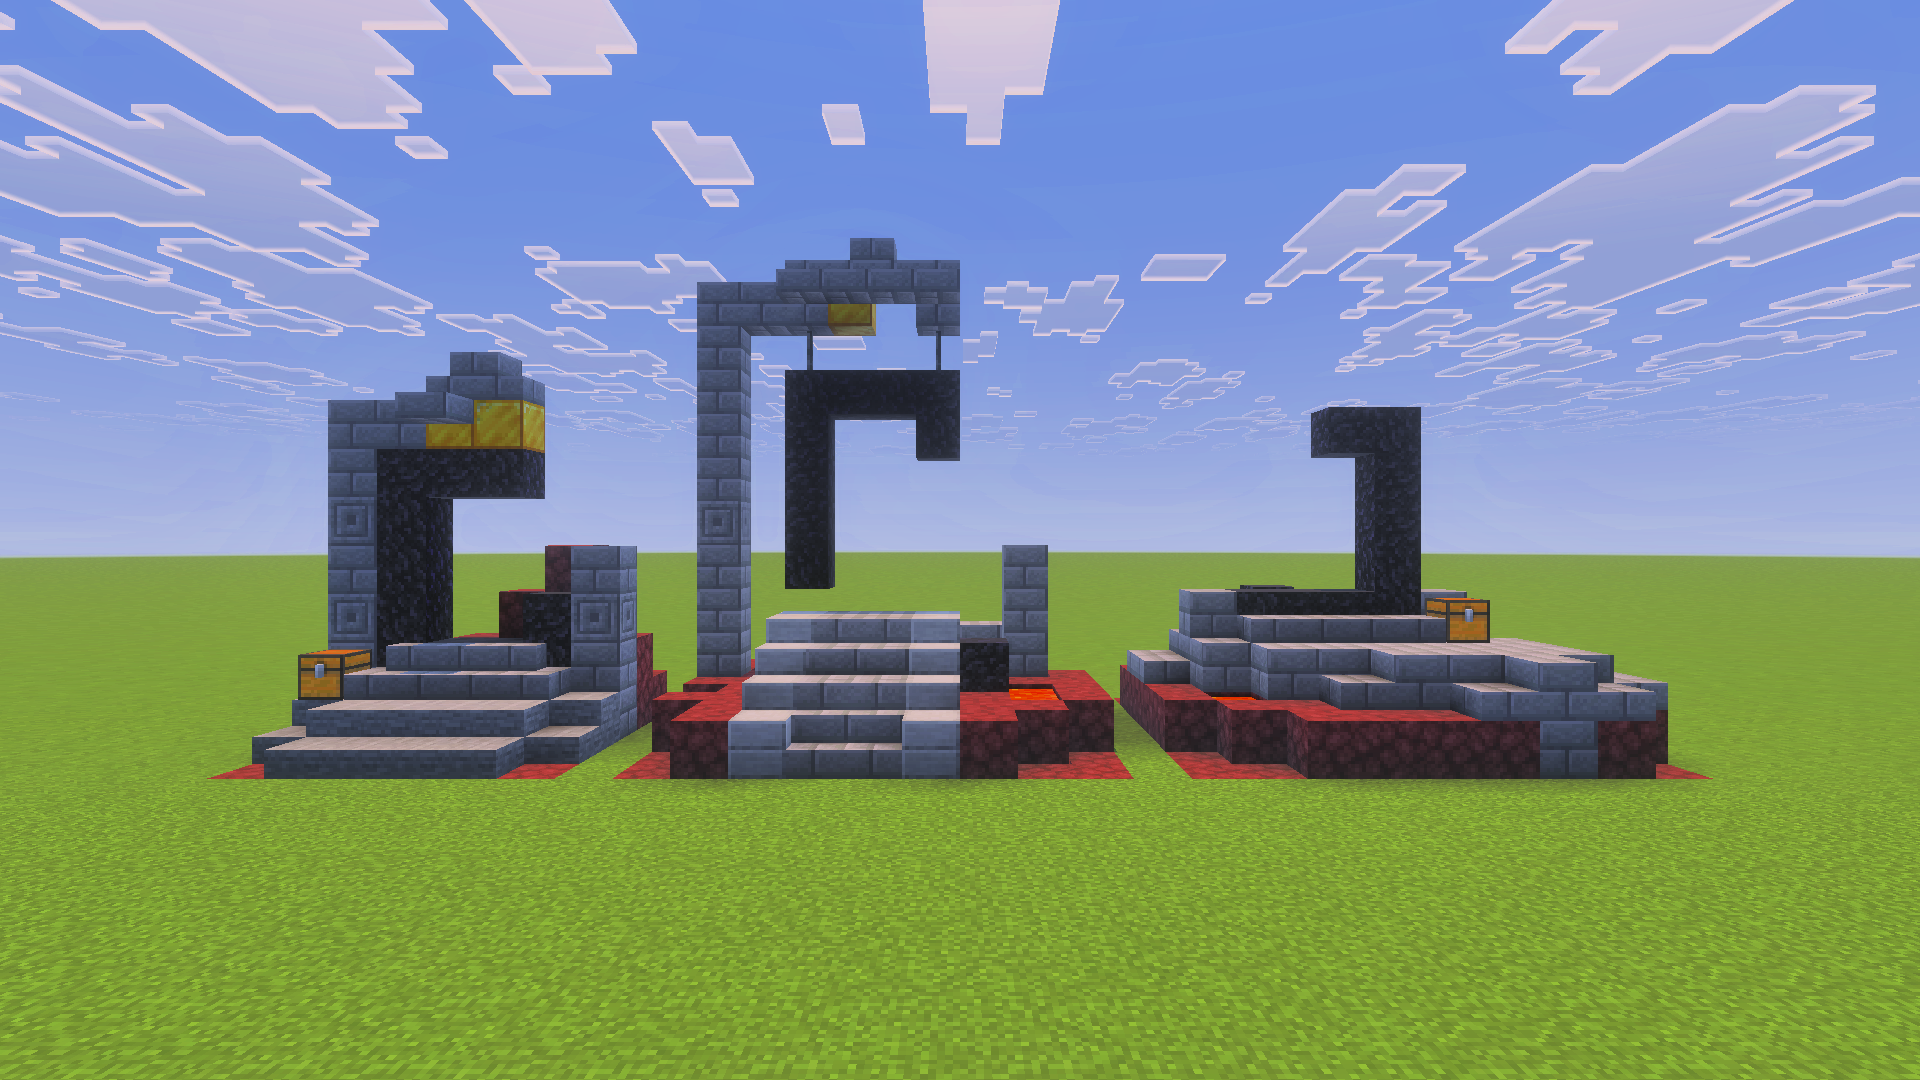
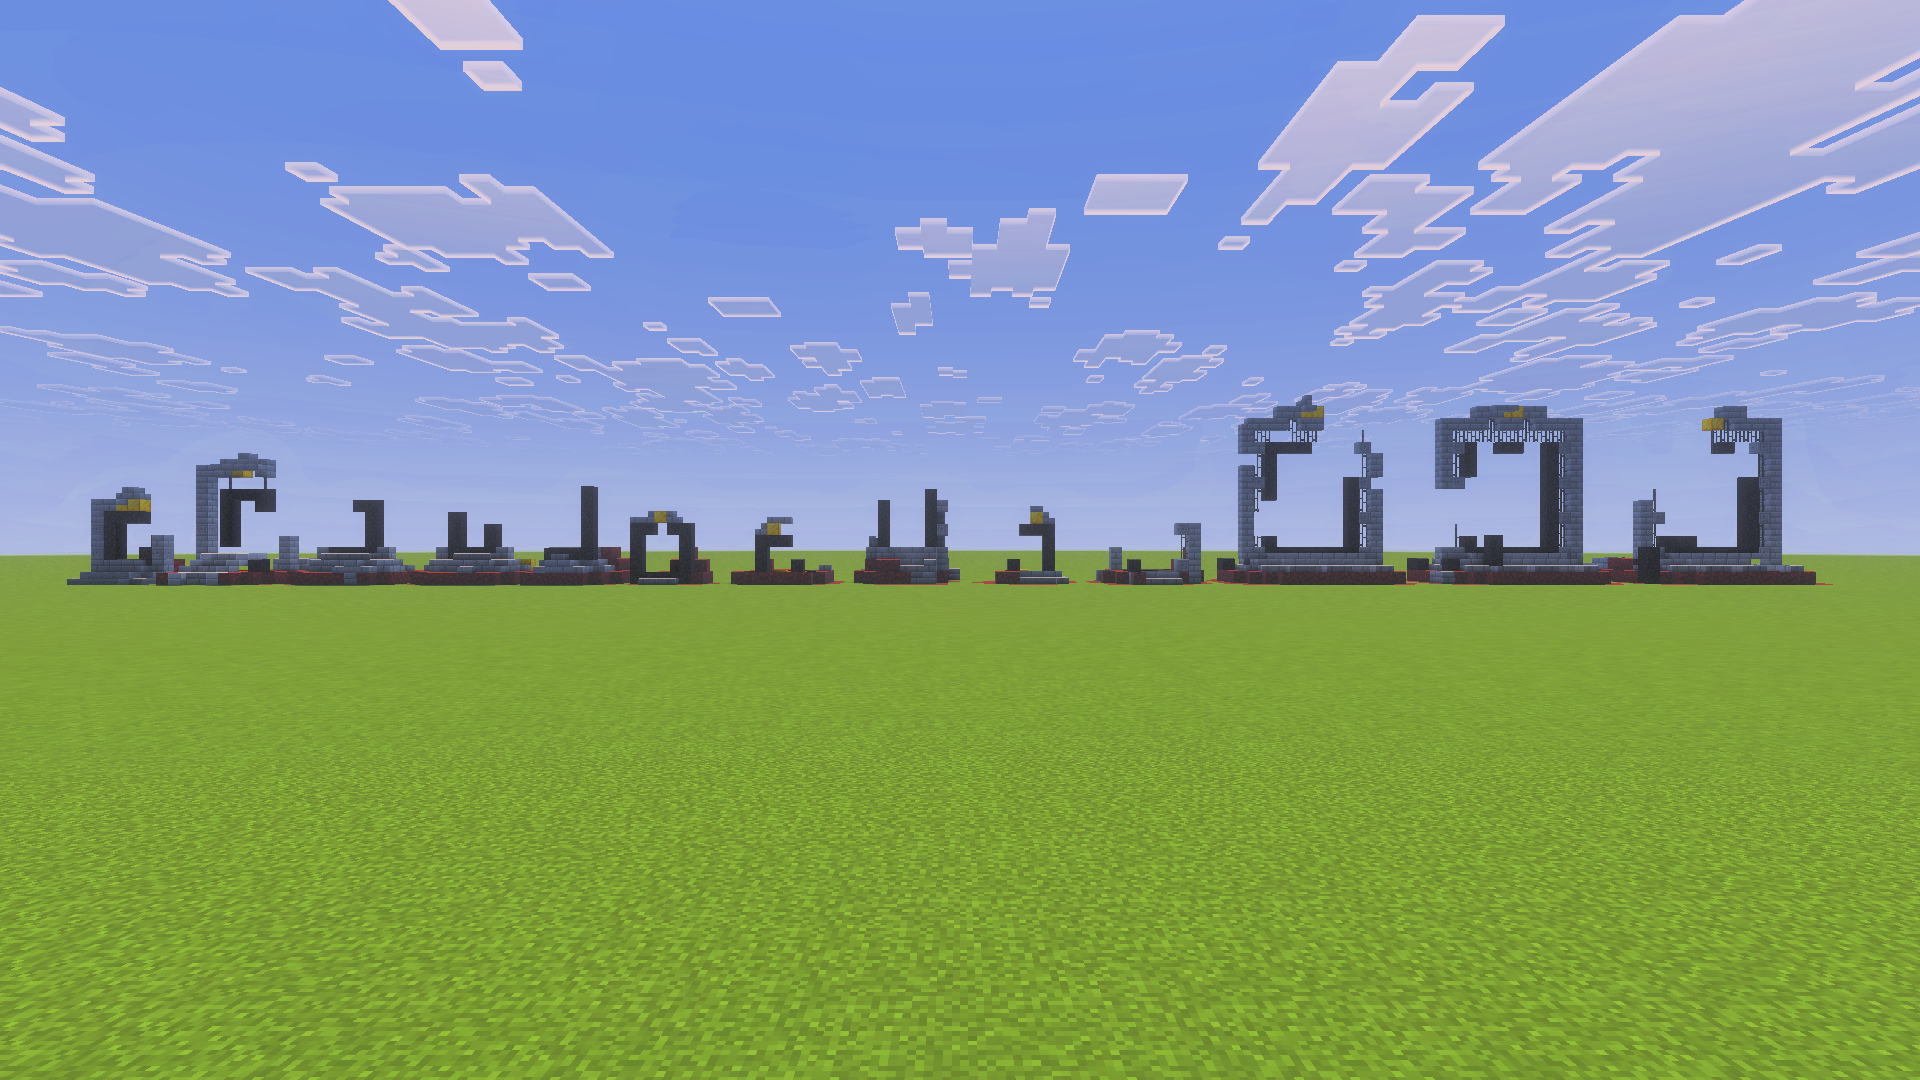
Update assets for v2.1.0

diff --git a/README.md b/README.md
@@ -12,22 +12,22 @@ Build Nether structures anywhere in your world in the blink of an eye. Nether Ge
 ### Bastion remnants
 Generate all bastion variants: bridge, hoglin stables, treasure, and housing units.
 
-![Screenshot showing all 4 bastion remnant variants.](assets/screenshot_0.png)
+![An image divided into four different layers showing a bridge bastion, a hoglin stables bastion, a treasure bastion, and a housing units bastion.](assets/screenshot_0.png)
 
 ### Nether fossils
 Generate all 14 types of fossils.
 
-![Screenshot showing all Nether fossils.](assets/screenshot_1.png)
+![A screenshot showing all 14 Nether fossils next to each other.](assets/screenshot_1.png)
 
 ### Ruined portals
-Generate ruined Nether portals.
+Generate all 13 types of ruined Nether portals.
 
-![Screenshot showing 3 ruined portals.](assets/screenshot_2.png)
+![A screenshot showing all 13 ruined portals next to each other.](assets/screenshot_2.png)
 
 ### Compatible with other generators
 Seamlessly pair this add-on with other generators, like [Village Generator](https://github.com/th3emilis/village-generator/releases/latest).
 
-![Screenshot showing a villager inside a Plains Village House in the treasure room of a Bastion Remnant.](assets/screenshot_3.png)
+![A screenshot showing a villager inside a plains village house in the treasure room of a bastion remnant.](assets/screenshot_3.png)
 
 ## Usage
 

diff --git a/CHANGELOG.md b/CHANGELOG.md
@@ -2,6 +2,10 @@
 
 All notable changes to this add-on will be documented in this file.
 
+## 2.1.0 - 03 October 2025
+
+- Added all 10 remaining ruined portals.
+
 ## 2.0.0 - 14 August 2025
 
 - Structures are now generated via function commands in the cardinal direction the player is facing when the command is run.
